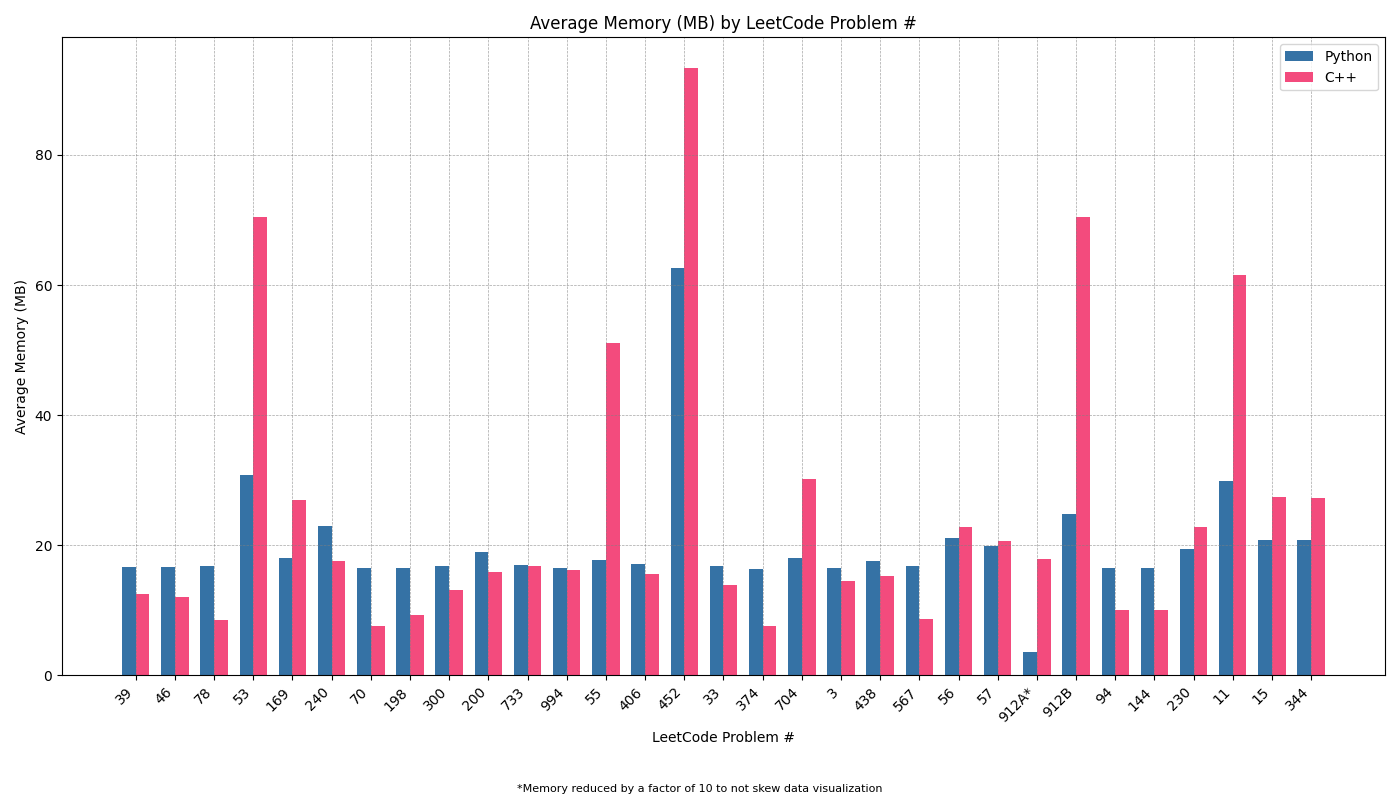
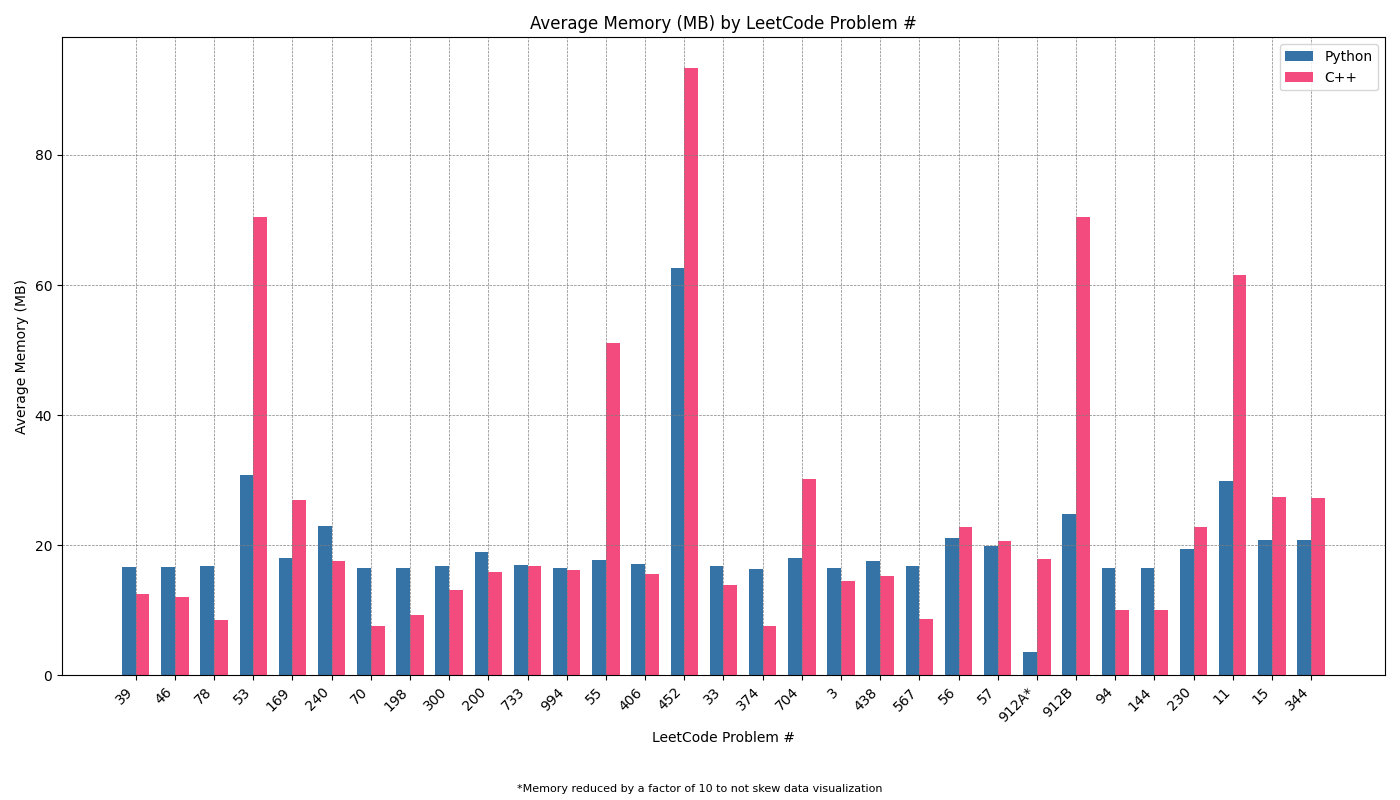
update visualizations

diff --git a/visualization.py b/visualization.py
@@ -32,7 +32,7 @@ def create_bar_graph(x, y1, y2, labels, title, y_label, filename, note, y_ticks,
     plt.yticks(y_ticks)
     plt.legend(loc='upper right')
     
-    plt.grid(axis='both', linestyle='--', linewidth=0.5, color='gray', alpha=0.7)
+    plt.grid(axis='both', linestyle='--', linewidth=0.5, color='gray', alpha=1.0)
 
     plt.tight_layout(rect=[0, 0.05, 1, 1])
     if include_note:
